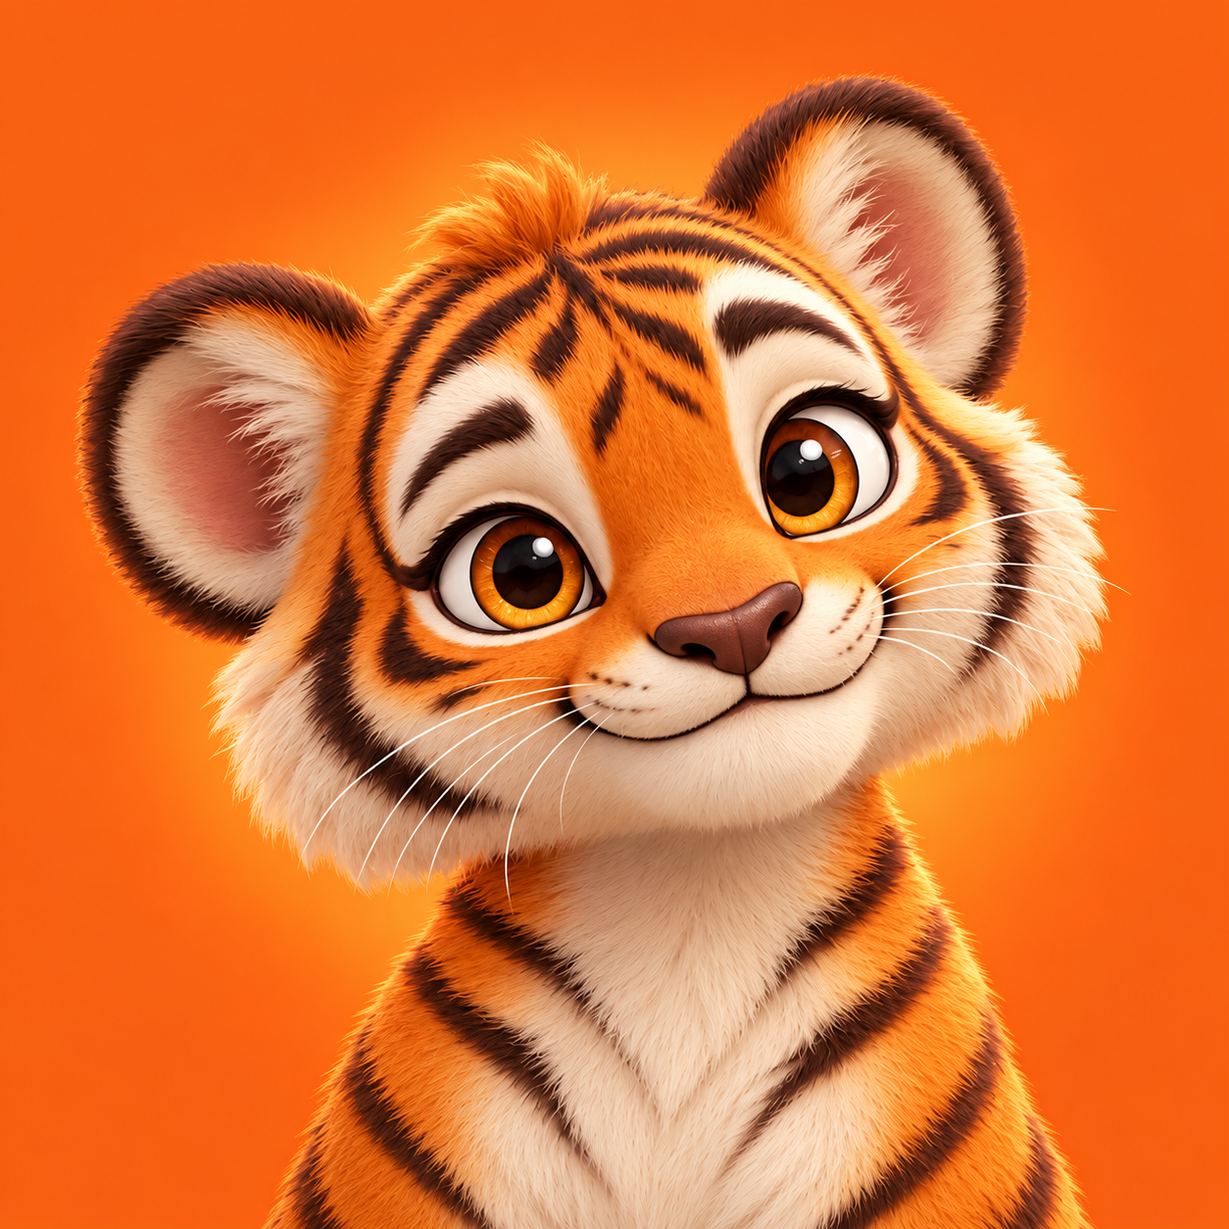
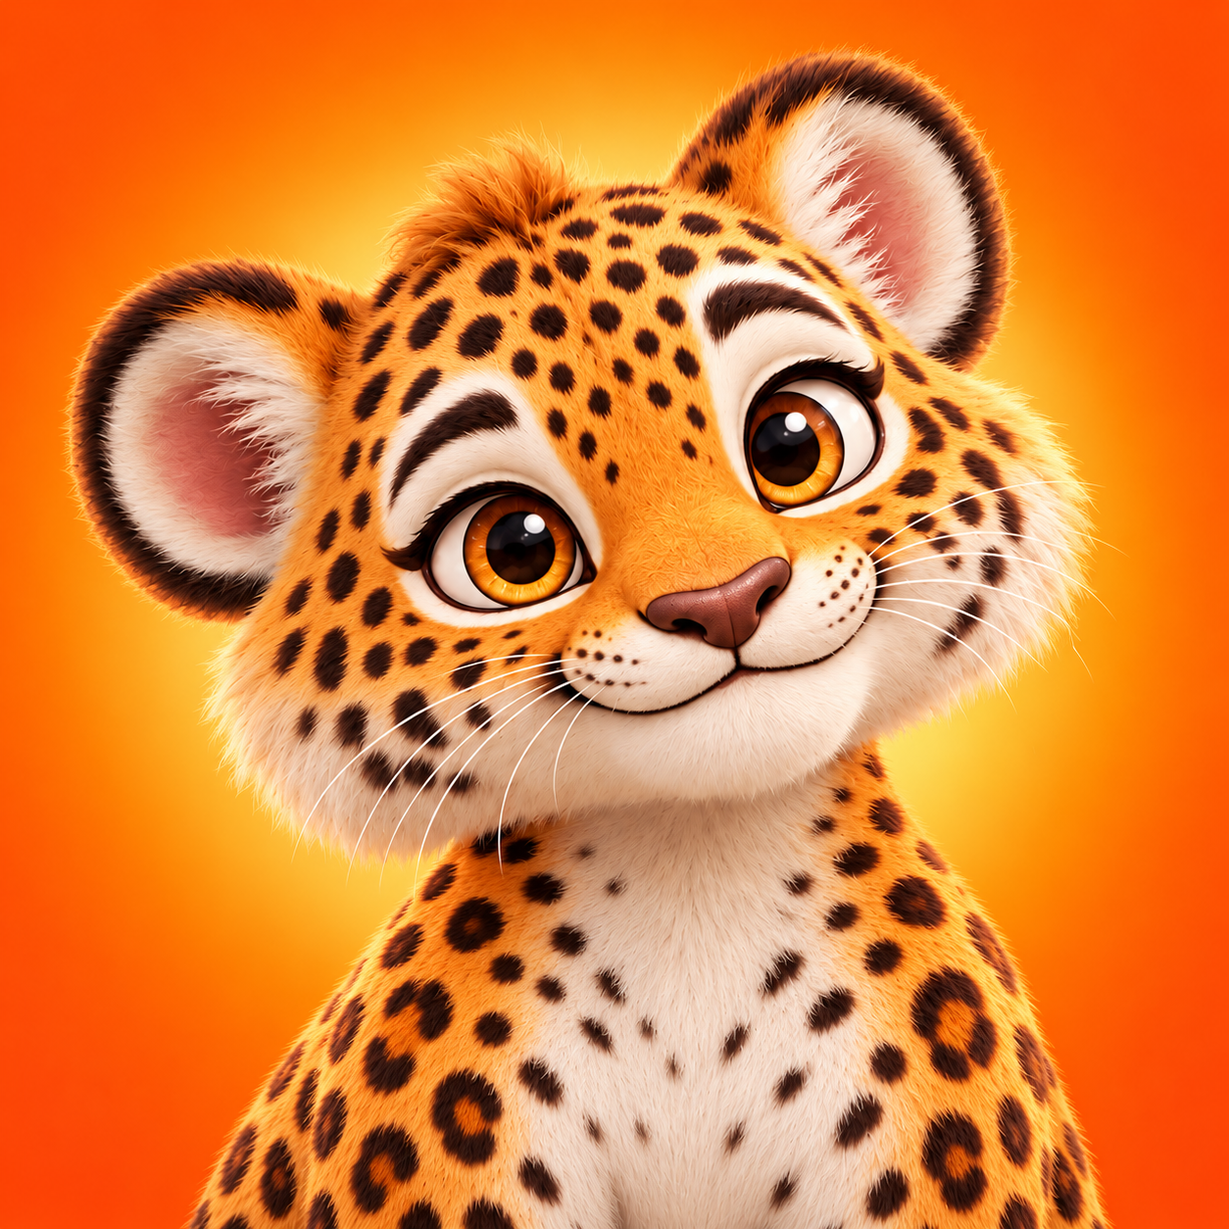
Replace tiger with spotted macan and add on-device receipt OCR

diff --git a/src/Main.tsx b/src/Main.tsx
@@ -9,6 +9,7 @@ import { decode } from 'base64-arraybuffer';
 import Ionicons from '@expo/vector-icons/Ionicons';
 import { useFonts } from 'expo-font';
 import { Session } from '@supabase/supabase-js';
+import { parseReceipt } from './lib/receipt';
 import { supabase } from './lib/supabase';
 import { useLedger } from './hooks/useLedger';
 import { Goal, isValidDate, jakartaDay, money, parseAmount, petProgress, totals, Transaction } from './lib/finance';
@@ -40,7 +41,7 @@ export function MauCuanProvider({ children }: { children: React.ReactNode }) {
   const [title, setTitle] = useState('');
   const [category, setCategory] = useState('Makan & minum');
   const [date, setDate] = useState(jakartaDay());
-  const [receipt, setReceipt] = useState<{ uri: string; base64: string; mime: string; path?: string } | null>(null);
+  const [receipt, setReceipt] = useState<{ uri: string; base64: string; mime: string; path?: string; note?: string } | null>(null);
   const [selectedGoal, setSelectedGoal] = useState<Goal | null>(null);
   const [goalTitle, setGoalTitle] = useState('');
   const [goalAmount, setGoalAmount] = useState('');
@@ -128,7 +129,16 @@ export function MauCuanProvider({ children }: { children: React.ReactNode }) {
     if (!asset.base64) throw new Error('Foto tidak terbaca. Coba lagi.');
     const mime = asset.mimeType || 'image/jpeg';
     if (!['image/jpeg', 'image/png', 'image/webp'].includes(mime)) throw new Error('Gunakan foto JPG, PNG, atau WebP.');
-    setReceipt({ uri: asset.uri, base64: asset.base64, mime }); setEditing(null); setEntryType('expense'); setTitle(''); setAmount(''); setCategory('Makan & minum'); setDate(jakartaDay()); go('receipt');
+    let suggestion: ReturnType<typeof parseReceipt> = {};
+    let note = 'Detail belum terbaca. Isi manual lalu review sebelum menyimpan.';
+    try {
+      const ocr = await import('expo-text-extractor');
+      if (!ocr.isSupported) throw new Error('OCR unavailable');
+      const blocks = await ocr.extractTextFromImage(asset.uri);
+      suggestion = parseReceipt(blocks);
+      note = blocks.length ? 'Dibaca di perangkat. Cek nama, tanggal, dan total; hasil bisa keliru. Bagian kosong perlu diisi.' : 'Teks belum terbaca. Coba foto lebih jelas atau isi manual.';
+    } catch { note = 'Pembacaan belum tersedia di versi ini atau foto gagal dibaca. Isi manual, atau gunakan build native terbaru.'; }
+    setReceipt({ uri: asset.uri, base64: asset.base64, mime, note }); setEditing(null); setEntryType('expense'); setTitle(suggestion.title || ''); setAmount(suggestion.amount ? String(suggestion.amount) : ''); setCategory('Makan & minum'); setDate(suggestion.date || jakartaDay()); go('receipt');
   }
   function editTransaction(t: Transaction) { setEditing(t); setEntryType(t.kind); setTitle(t.title); setAmount(String(t.amount)); setCategory(t.category); setDate(t.occurred_on); setReceipt(null); go('entry'); }
   const section = (heading: string, action?: string, onPress?: () => void) => <View style={[ui.row, { justifyContent: 'space-between' }]}><Text style={type.heading}>{heading}</Text>{action && <LinkButton text={action} onPress={onPress!} />}</View>;
@@ -150,9 +160,9 @@ export function MauCuanProvider({ children }: { children: React.ReactNode }) {
         {section('Catatan terbaru', 'Semua', () => go('records'))}<Card>{ledger.transactions.length ? ledger.transactions.slice(0, 3).map(transaction) : <Text style={type.body}>Belum ada catatan. Mulai kecil dengan transaksi pertamamu.</Text>}</Card>
       </>;
       case 'records': return <><Header title="Catatan uang" sub="Semua arus uangmu, satu tempat." />{section(month, 'Lihat insight →', () => go('insights'))}<View style={s.chips}>{[['all', 'Semua'], ['expense', 'Pengeluaran'], ['income', 'Pemasukan']].map(([key, label]) => <Pressable key={key} onPress={() => setFilter(key)} style={[s.chip, filter === key && s.selected]}><Text style={[s.chipText, filter === key && { color: 'white' }]}>{label}</Text></Pressable>)}</View><Card>{ledger.transactions.filter(t => filter === 'all' || t.kind === filter).length ? ledger.transactions.filter(t => filter === 'all' || t.kind === filter).map(transaction) : <><View style={{ alignItems: 'center' }}>{miko(180)}</View><Text style={type.heading}>Belum ada catatan di sini.</Text><Text style={type.body}>Tanpa belanja? Cukup check-in. Kamu juga bisa mencatat pemasukan.</Text></>}</Card><Button text="+ Catat transaksi" onPress={() => openEntry()} /></>;
-      case 'entry': case 'receipt': return <><Header title={receipt ? 'Review struk' : editing ? 'Ubah transaksi' : 'Catat transaksi'} onBack={() => go(editing ? 'records' : 'home')} />{receipt && <><Image source={{ uri: receipt.uri }} style={s.receiptPhoto} resizeMode="contain" /><Card tone="pale"><Text style={type.heading}>Lengkapi detail struk.</Text><Text style={type.body}>Pembacaan otomatis belum diaktifkan. Foto bisa disimpan bersama catatanmu.</Text></Card></>}<View style={s.chips}>{(['expense', 'income'] as const).map(k => <Pressable key={k} onPress={() => { setEntryType(k); setCategory(k === 'income' ? 'Gaji' : 'Makan & minum'); }} style={[s.chip, entryType === k && s.selected]}><Text style={[s.chipText, entryType === k && { color: 'white' }]}>{k === 'income' ? 'Pemasukan' : 'Pengeluaran'}</Text></Pressable>)}</View><Field label="NOMINAL • RUPIAH" numeric value={amount} onChangeText={setAmount} placeholder="48000" /><Field label={entryType === 'income' ? 'SUMBER PEMASUKAN' : 'UNTUK APA?'} value={title} onChangeText={setTitle} placeholder={entryType === 'income' ? 'Gaji Oktober' : 'Kopi & roti'} /><Text style={type.eyebrow}>KATEGORI</Text><View style={s.chips}>{(entryType === 'income' ? ['Gaji', 'Freelance', 'Hadiah', 'Lainnya'] : ['Makan & minum', 'Transportasi', 'Belanja', 'Tagihan', 'Lainnya']).map(c => <Pressable key={c} onPress={() => setCategory(c)} style={[s.chip, category === c && s.selected]}><Text style={[s.chipText, category === c && { color: 'white' }]}>{c}</Text></Pressable>)}</View><Field label="TANGGAL • YYYY-MM-DD" value={date} onChangeText={setDate} /><Button text={busy ? 'Menyimpan…' : 'Simpan transaksi'} disabled={busy} onPress={() => void run(saveEntry)} />{editing && <LinkButton text="Hapus transaksi" onPress={() => Alert.alert('Hapus catatan?', 'Transaksi ini akan dihapus dari catatanmu.', [{ text: 'Batal', style: 'cancel' }, { text: 'Hapus', style: 'destructive', onPress: () => void run(async () => { const { error: e } = await supabase.from('transactions').delete().eq('id', editing.id); if (e) throw e; if (editing.receipt_path) { const { error: storageError } = await supabase.storage.from('receipts').remove([editing.receipt_path]); if (storageError) Alert.alert('Foto belum terhapus', storageError.message); } setEditing(null); await ledger.refresh(); go('records'); }) }])} />}</>;
+      case 'entry': case 'receipt': return <><Header title={receipt ? 'Review struk' : editing ? 'Ubah transaksi' : 'Catat transaksi'} onBack={() => go(editing ? 'records' : 'home')} />{receipt && <><Image source={{ uri: receipt.uri }} style={s.receiptPhoto} resizeMode="contain" /><Card tone="pale"><Text style={type.heading}>Review hasil struk.</Text><Text style={type.body}>{receipt.note}</Text></Card></>}<View style={s.chips}>{(['expense', 'income'] as const).map(k => <Pressable key={k} onPress={() => { setEntryType(k); setCategory(k === 'income' ? 'Gaji' : 'Makan & minum'); }} style={[s.chip, entryType === k && s.selected]}><Text style={[s.chipText, entryType === k && { color: 'white' }]}>{k === 'income' ? 'Pemasukan' : 'Pengeluaran'}</Text></Pressable>)}</View><Field label="NOMINAL • RUPIAH" numeric value={amount} onChangeText={setAmount} placeholder="48000" /><Field label={entryType === 'income' ? 'SUMBER PEMASUKAN' : 'UNTUK APA?'} value={title} onChangeText={setTitle} placeholder={entryType === 'income' ? 'Gaji Oktober' : 'Kopi & roti'} /><Text style={type.eyebrow}>KATEGORI</Text><View style={s.chips}>{(entryType === 'income' ? ['Gaji', 'Freelance', 'Hadiah', 'Lainnya'] : ['Makan & minum', 'Transportasi', 'Belanja', 'Tagihan', 'Lainnya']).map(c => <Pressable key={c} onPress={() => setCategory(c)} style={[s.chip, category === c && s.selected]}><Text style={[s.chipText, category === c && { color: 'white' }]}>{c}</Text></Pressable>)}</View><Field label="TANGGAL • YYYY-MM-DD" value={date} onChangeText={setDate} /><Button text={busy ? 'Menyimpan…' : 'Simpan transaksi'} disabled={busy} onPress={() => void run(saveEntry)} />{editing && <LinkButton text="Hapus transaksi" onPress={() => Alert.alert('Hapus catatan?', 'Transaksi ini akan dihapus dari catatanmu.', [{ text: 'Batal', style: 'cancel' }, { text: 'Hapus', style: 'destructive', onPress: () => void run(async () => { const { error: e } = await supabase.from('transactions').delete().eq('id', editing.id); if (e) throw e; if (editing.receipt_path) { const { error: storageError } = await supabase.storage.from('receipts').remove([editing.receipt_path]); if (storageError) Alert.alert('Foto belum terhapus', storageError.message); } setEditing(null); await ledger.refresh(); go('records'); }) }])} />}</>;
       case 'saved': return <><View style={{ alignItems: 'center' }}>{miko(230)}<Badge text="✓ TERSIMPAN" green /></View><Text style={type.title}>Satu catatan.{ '\n' }Selangkah lebih sadar.</Text><Card><Text style={type.heading}>{lastEntry?.title}</Text><Text style={type.money}>{money(lastEntry?.amount || 0)}</Text><Text style={type.body}>{lastEntry?.category} · {lastEntry?.occurred_on}</Text></Card><Card tone="pale"><Text style={type.heading}>Catatan rapi, pikiran ringan.</Text><Text style={type.body}>XP dari check-in harian, bukan jumlah transaksi atau besarnya belanja.</Text></Card><Button text={pet.checked ? 'Lihat Macan' : 'Lanjut check-in harian'} onPress={() => go(pet.checked ? 'pet' : 'checkin')} /><Button text="Kembali ke beranda" secondary onPress={() => go('home')} /></>;
-      case 'scan': return <><Header title="Scan struk" sub="Ambil foto atau pilih struk dari galeri." onBack={() => go('home')} /><Card tone="forest"><View style={{ alignItems: 'center', paddingVertical: 40 }}><Ionicons name="scan-outline" size={80} color="#FFBE85" /><Text style={[type.heading, { color: 'white', marginTop: 20 }]}>Ratakan struk. Cari cahaya cukup.</Text><Text style={[type.body, { color: '#C8D8CF', textAlign: 'center', marginTop: 10 }]}>Seluruh struk dan total harus terlihat.</Text></View></Card><Button text="Ambil foto" disabled={busy} onPress={() => void run(() => chooseReceipt(true))} /><Button text="Pilih dari galeri" secondary disabled={busy} onPress={() => void run(() => chooseReceipt(false))} /><Card tone="pale"><Text style={type.heading}>Pembacaan otomatis segera hadir.</Text><Text style={type.body}>Saat ini, foto disimpan secara privat dan detail diisi manual. Kami tidak menebak jumlah pengeluaranmu.</Text></Card><LinkButton text="Catat tanpa foto →" onPress={() => openEntry()} /></>;
+      case 'scan': return <><Header title="Scan struk" sub="Ambil foto atau pilih struk dari galeri." onBack={() => go('home')} /><Card tone="forest"><View style={{ alignItems: 'center', paddingVertical: 40 }}><Ionicons name="scan-outline" size={80} color="#FFBE85" /><Text style={[type.heading, { color: 'white', marginTop: 20 }]}>Ratakan struk. Cari cahaya cukup.</Text><Text style={[type.body, { color: '#C8D8CF', textAlign: 'center', marginTop: 10 }]}>Seluruh struk dan total harus terlihat.</Text></View></Card><Button text={busy ? 'Menyiapkan foto & membaca…' : 'Ambil foto'} disabled={busy} onPress={() => void run(() => chooseReceipt(true))} /><Button text="Pilih dari galeri" secondary disabled={busy} onPress={() => void run(() => chooseReceipt(false))} /><Card tone="pale"><Text style={type.heading}>Dibaca langsung di perangkat.</Text><Text style={type.body}>Nama, tanggal, dan total yang terbaca menjadi saran. Review dulu; transaksi disimpan hanya saat kamu menekan Simpan.</Text></Card><LinkButton text="Catat tanpa foto →" onPress={() => openEntry()} /></>;
       case 'insights': { const categories = new Map<string, number>(); for (const t of monthEntries) if (t.kind === 'expense') categories.set(t.category, (categories.get(t.category) || 0) + Number(t.amount)); return <><Header title="Kenali polamu" sub={month} onBack={() => go('records')} /><Card><Text style={type.eyebrow}>PENGELUARAN BULAN INI</Text><Text style={type.money}>{money(spending)}</Text><Text style={type.body}>{monthEntries.filter(t => t.kind === 'expense').length} catatan pengeluaran</Text></Card>{section('Ke mana uangmu pergi?')}<Card>{categories.size ? [...categories].sort((a, b) => b[1] - a[1]).map(([c, a]) => <View key={c} style={{ gap: 10 }}><View style={[ui.row, { justifyContent: 'space-between' }]}><Text style={type.body}>{c}</Text><Text style={type.heading}>{money(a)}</Text></View><Progress value={a / spending} /></View>) : <Text style={type.body}>Belum ada pengeluaran bulan ini.</Text>}</Card><Card tone="pale"><Text style={type.heading}>Ruang kecil untuk menabung.</Text><Text style={type.body}>Dana bebas tercatat: {money(balance.available)}. Sisihkan sesuai kemampuanmu.</Text></Card><Button text="Lihat target tabungan" onPress={() => go('goals')} /></>; }
       case 'goals': return <><Header title="Target impian" sub="Bikin masa depan terasa lebih dekat." /><Card tone="forest"><Text style={[type.eyebrow, { color: '#C8D8CF' }]}>TOTAL DANA TERSISIHKAN</Text><Text style={[type.money, { color: 'white' }]}>{money(balance.allocated)}</Text><Text style={[type.body, { color: '#C8D8CF' }]}>{ledger.goals.length} target · Dicatat, bukan saldo bank</Text></Card>{ledger.goals.map(goalCard)}{!ledger.goals.length && <Card tone="pale"><Text style={type.heading}>Satu impian, satu langkah awal.</Text><Text style={type.body}>Mulai dengan dana darurat atau sesuatu yang ingin kamu capai.</Text></Card>}<Button text="+ Buat target baru" onPress={() => { setGoalTitle(''); setGoalAmount(''); setGoalDate(''); go('newgoal'); }} /></>;
       case 'newgoal': return <><Header title="Buat target" sub="Satu impian, satu langkah awal." onBack={() => go('goals')} /><Field label="NAMA TARGET" value={goalTitle} onChangeText={setGoalTitle} placeholder="Dana darurat" /><Field label="JUMLAH TARGET • RUPIAH" numeric value={goalAmount} onChangeText={setGoalAmount} placeholder="5000000" /><Field label="TANGGAL TARGET • OPSIONAL" value={goalDate} onChangeText={setGoalDate} placeholder="2027-03-31" /><Card tone="pale"><Text style={type.heading}>Mulai dengan yang realistis.</Text><Text style={type.body}>Tidak ada penalti kalau rencanamu berubah.</Text></Card><Button text="Buat target tabungan" disabled={busy} onPress={() => void run(async () => { const value = parseAmount(goalAmount); if (!value || !goalTitle.trim()) throw new Error('Isi nama dan jumlah target.'); if (goalDate && !isValidDate(goalDate)) throw new Error('Tanggal target tidak valid.'); const { error: e } = await supabase.from('goals').insert({ user_id: session.user.id, title: goalTitle.trim(), target_amount: value, target_date: goalDate || null }); if (e) throw e; await ledger.refresh(); go('goals'); })} /></>;

diff --git a/src/lib/receipt.ts b/src/lib/receipt.ts
@@ -1,0 +1,39 @@
+export interface ReceiptSuggestion { title?: string; amount?: number; date?: string; }
+
+// Conservative suggestions: never infer a total from the largest line item.
+export function parseReceipt(blocks: string[]): ReceiptSuggestion {
+  const lines = blocks.join('\n').slice(0, 50000).split(/\r?\n/).map(s => s.trim()).filter(Boolean);
+  const result: ReceiptSuggestion = {};
+  result.title = lines.slice(0, 5).find(s => /[a-z]{3}/i.test(s) && !/receipt|struk|invoice|nota|telp|phone|npwp|www\.|https?:|\btotal\b/i.test(s))?.slice(0, 80);
+  for (const line of lines) {
+    const iso = line.match(/\b(20\d{2})[-/](\d{1,2})[-/](\d{1,2})\b/);
+    const local = line.match(/\b(\d{1,2})[-/.](\d{1,2})[-/.](20\d{2})\b/);
+    const parts = iso ? [iso[1], iso[2], iso[3]] : local ? [local[3], local[2], local[1]] : null;
+    if (!parts) continue;
+    const date = `${parts[0]}-${parts[1].padStart(2, '0')}-${parts[2].padStart(2, '0')}`;
+    const parsed = new Date(`${date}T00:00:00Z`);
+    if (Number.isFinite(parsed.getTime()) && parsed.toISOString().slice(0, 10) === date) { result.date = date; break; }
+  }
+  // MauCuan currently has an IDR wallet; do not reinterpret foreign currency.
+  if (lines.some(s => /\b(?:USD|EUR|SGD|MYR)\b|[$€£]/i.test(s))) return result;
+  const candidates: { value: number; rank: number }[] = [];
+  for (let i = 0; i < lines.length; i++) {
+    const label = lines[i];
+    if (!/\b(?:total|jumlah|amount due)\b/i.test(label) || /sub\s*total|subtotal|discount|diskon|tax|pajak|cash|tunai|change|kembali|item|qty/i.test(label)) continue;
+    const numberPart = label.match(/\b(?:total(?:\s+(?:bayar|pembayaran|belanja))?|jumlah(?:\s+bayar)?|amount due)\b\s*[:=]?\s*(?:Rp\.?\s*)?([\d][\d.,]*)\s*$/i)?.[1]
+      || (/\b(?:total|jumlah|amount due)\b\s*[:=]?\s*$/i.test(label) ? lines[i + 1]?.match(/^(?:Rp\.?\s*)?([\d][\d.,]*)\s*$/i)?.[1] : undefined);
+    if (!numberPart) continue;
+    // Whole rupiah only. A two-digit fractional suffix must be zero.
+    const fraction = numberPart.match(/[.,](\d{2})$/);
+    if (fraction && fraction[1] !== '00') continue;
+    const integerPart = fraction ? numberPart.slice(0, -3) : numberPart;
+    if (!/^\d+$/.test(integerPart) && !/^\d{1,3}(?:\.\d{3})+$/.test(integerPart) && !/^\d{1,3}(?:,\d{3})+$/.test(integerPart)) continue;
+    const value = Number(integerPart.replace(/[.,]/g, ''));
+    if (!Number.isSafeInteger(value) || value <= 0) continue;
+    candidates.push({ value, rank: /grand\s+total|total\s+(?:bayar|pembayaran)|amount due/i.test(label) ? 2 : 1 });
+  }
+  const rank = Math.max(0, ...candidates.map(c => c.rank));
+  const values = [...new Set(candidates.filter(c => c.rank === rank).map(c => c.value))];
+  if (values.length === 1) result.amount = values[0];
+  return result;
+}

diff --git a/README.md b/README.md
@@ -1,6 +1,6 @@
 # MauCuan
 
-A native Android and iOS app for recording income and spending, setting savings goals, and building consistent habits with Miko the tiger. Built with Expo / React Native and Supabase.
+A native Android and iOS app for recording income and spending, setting savings goals, and building consistent habits with Miko the spotted macan. Built with Expo / React Native and Supabase.
 
 ## Run locally
 
@@ -13,7 +13,7 @@ For full native email callbacks, install a development build. Expo Go can previe
 - Email/password account creation, verification handling, sign-in/out, password recovery, and native encrypted session persistence.
 - First-use profile and wallet setup; real transactions with editing, deletion, filters, and monthly category insights.
 - Savings goals and atomic allocations that do not count as new spending.
-- Camera/gallery receipt attachments, stored in a private Supabase bucket. **Automatic OCR is not connected yet; receipt fields are currently filled manually.**
+- Camera/gallery receipt attachments, stored in a private Supabase bucket. On-device OCR suggests merchant, IDR total, and date using ML Kit (Android) / Vision (iOS). Users must review before saving; unreadable or conflicting fields remain manual. Requires a new native build, not Expo Go.
 - Server-authoritative daily check-ins, XP, levels, leaves, and cosmetic collection redemptions. Extra transactions do not earn extra daily rewards.
 - Original rendered Miko character, orange/ivory/forest design, glass navigation, and reduced-motion setting.
 
@@ -27,8 +27,8 @@ The initial schema is saved in `supabase/schema.sql` and applied to the hosted p
 
 1. **Email delivery:** configure a custom SMTP provider, verified sender address, and sender domain for public signup and password resets. [Supabase SMTP guide](https://supabase.com/docs/guides/auth/auth-smtp).
 2. **Auth redirects:** add `maucuan://auth/callback` to Supabase Auth's allowed Redirect URLs. An owned HTTPS landing URL should become the Site URL. For code-based verification, include `{{ .Token }}` in the confirmation and recovery email templates; the app supports entering those codes. [Native callback guide](https://supabase.com/docs/guides/auth/native-mobile-deep-linking).
-3. **Receipt OCR:** choose a provider and spending cap. Its credential must remain on the server. Do not send private receipts to a third party until that integration is selected. The app never pretends OCR has succeeded.
-4. **Build distribution:** an Expo account/EAS project is needed for cloud development builds. `eas.json` includes development, Android APK preview, and production profiles. Apple/Google developer accounts are needed for store release. Identifiers `com.medissl.maucuan` are provisional until confirmed.
+3. **Receipt OCR:** on-device extraction is implemented with `expo-text-extractor@2.0.0`; validate it on real receipt photos after installing the native build. No OCR cloud credentials are required. DocRunic exposes documentation tools and was not connected as an OCR processor.
+4. **Build distribution:** Expo project [@medizeng/maucuan](https://expo.dev/accounts/medizeng/projects/maucuan) is linked for cloud builds. `eas.json` includes development, Android APK preview, and production profiles. Apple/Google developer accounts are needed for store release. Identifiers `com.medissl.maucuan` are provisional until confirmed.
 5. **Store readiness:** privacy/support URLs, account deletion/export workflows, physical-device accessibility checks, and the store listing. This initial implementation is a development build, not a store-ready release.
 
 ## Validation
@@ -39,6 +39,10 @@ Android and iOS JavaScript/Hermes bundle exports have passed. Database security 
 
 ## Current limits
 
-One IDR wallet; online-first recording; daily check-ins; a static rendered mascot with breathing animation. No bank transfers, bank sync, automatic OCR, reminders, pet pose animation, accessory rendering, or recurring transactions yet. Large ledgers will need server pagination and aggregates before scale.
+One IDR wallet; online-first recording; daily check-ins; a static rendered mascot with breathing animation. No bank transfers, bank sync, cloud OCR, reminders, pet pose animation, accessory rendering, or recurring transactions yet. Large ledgers will need server pagination and aggregates before scale.
 
 Dependency audit: the current Expo/React Native toolchain includes unresolved upstream `braces`, `node-forge`, and Router's transitive URI parser advisories. Patched braces/forge versions were unavailable when checked; the parser repair currently requires a Router major upgrade, outside SDK 57 compatibility. Do not expose the Metro development server publicly; revisit upstream fixes before release. The compatible `uuid` fix is pinned through an override.
+
+## Website
+
+[Live MauCuan website](https://maucuan-finance.vercel.app) is deployed from `website/` to the Vercel Hobby project `maucuan`. Includes landing, support, privacy, and an optional native auth handoff page. Uses the spotted macan artwork. The free Vercel address is a website address, not a verified email sender domain. Custom sender/domain setup was deferred; SMTP is still pending.

diff --git a/docs/account-email-setup.md b/docs/account-email-setup.md
@@ -1,0 +1,25 @@
+# MauCuan account email setup
+
+The free website is https://maucuan-finance.vercel.app. It is usable as the Supabase Site URL, but its vercel.app hostname cannot serve as an owned sender domain. The domain purchase was deferred at the user's request. Account email delivery remains unconfigured.
+
+For a future dedicated sender, use Resend with a domain owned by the operator. Verify the DNS records Resend supplies, then enter these in Supabase Authentication → Emails → SMTP Settings:
+
+- Host: smtp.resend.com
+- Port: 465
+- Username: resend
+- Password: the Resend API key, entered only in the hosted secret field
+- Sender: a verified address on the owned domain
+- Sender name: MauCuan
+
+Do not put SMTP credentials or email provider keys in the mobile app, website, or repository. Keep email verification enabled. Test confirmation and password recovery with an address outside the Supabase organization before enabling public signup.
+
+Allow these auth redirects:
+
+- maucuan://auth/callback
+- https://maucuan-finance.vercel.app/auth/callback
+
+The HTTPS callback page forwards only auth callback fields to the installed native app after an explicit tap, removes callback fields from browser history, and has a no-referrer policy. Keep token-bearing URLs out of logs and analytics.
+
+The native app also accepts email codes. Include `{{ .Token }}` in the confirmation and recovery templates if using this path. The templates should link with Supabase's `{{ .ConfirmationURL }}`; do not construct a substitute confirmation URL.
+
+Reference: https://supabase.com/docs/guides/auth/auth-smtp and https://resend.com/docs/send-with-smtp.
